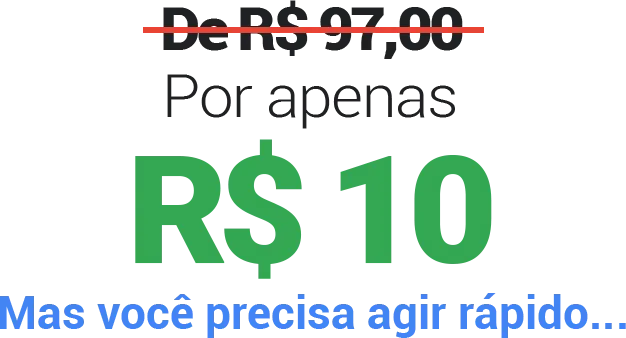
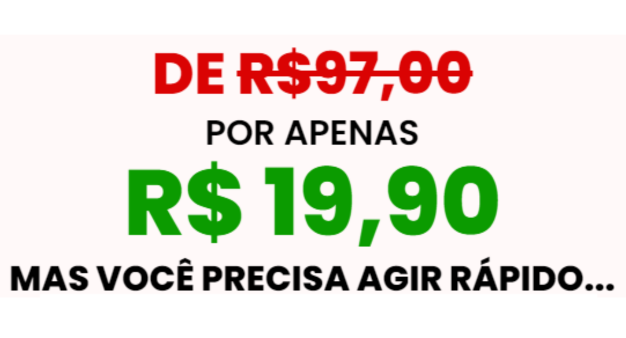
Add files via upload

diff --git a/tempero.html b/tempero.html
@@ -70,7 +70,7 @@ var pysOptions = {"staticEvents":{"facebook":{"init_event":[{"delay":0,"type":"s
                         <div class="elementor-widget-wrap elementor-element-populated"> 
                             <div class="elementor-element elementor-element-54c092b9 elementor-widget elementor-widget-image" data-id="54c092b9" data-element_type="widget" data-widget_type="image.default"> 
                                 <div class="elementor-widget-container"> 
-                                    <img decoding="async" fetchpriority="high" width="300" height="300" src="Design-sem-nome-2023-05-05T235432.087-300x300.png" class="attachment-medium size-medium wp-image-1256" alt="" srcset="https://cdn1.123tp.net/f82510e06f994523bf98f711fc83c182/images/Design-sem-nome-2023-05-05T235432.087-300x300.png 300w, https://cdn1.123tp.net/f82510e06f994523bf98f711fc83c182/images/Design-sem-nome-2023-05-05T235432.087-150x150.png 150w, https://cdn1.123tp.net/f82510e06f994523bf98f711fc83c182/images/Design-sem-nome-2023-05-05T235432.087.png 500w" sizes="(max-width: 300px) 100vw, 300px"> 
+                                    <img decoding="async" fetchpriority="high" width="300" height="300" src="Design-sem-nome-2023-05-05T235432.087-300x300.png" class="attachment-medium size-medium wp-image-1256" alt="" srcset="Design-sem-nome-2023-05-05T235432.087-300x300.png 300w, Design-sem-nome-2023-05-05T235432.087-150x150.png 150w, Design-sem-nome-2023-05-05T235432.087.png 500w" sizes="(max-width: 300px) 100vw, 300px"> 
                                 </div>                                 
                             </div>                             
                             <div class="elementor-element elementor-element-26f912f2 elementor-widget elementor-widget-heading" data-id="26f912f2" data-element_type="widget" data-widget_type="heading.default"> 
@@ -112,7 +112,7 @@ var pysOptions = {"staticEvents":{"facebook":{"init_event":[{"delay":0,"type":"s
                             <div class="elementor-element elementor-element-4ae4c439 elementor-widget__width-inherit elementor-align-center elementor-widget elementor-widget-button" data-id="4ae4c439" data-element_type="widget" data-widget_type="button.default"> 
                                 <div class="elementor-widget-container"> 
                                     <div class="elementor-button-wrapper"> 
-                                        <a href="https://pepper.com.br/checkout/index.html?p=68213&amp;o=74877" class="elementor-button-link elementor-button elementor-size-sm" role="button" id="umdoistrestplink1"> <span class="elementor-button-content-wrapper"> <span class="elementor-button-text">Liberar Guia Completo</span> </span> </a> 
+                                        <a href="https://pay.kiwify.com.br/o1u2X6f" class="elementor-button-link elementor-button elementor-size-sm" role="button" id="umdoistrestplink1"> <span class="elementor-button-content-wrapper"> <span class="elementor-button-text">Liberar Guia Completo</span> </span> </a> 
                                     </div>                                     
                                 </div>                                 
                             </div>                             
@@ -426,7 +426,7 @@ var pysOptions = {"staticEvents":{"facebook":{"init_event":[{"delay":0,"type":"s
                             <div class="elementor-element elementor-element-43c7c964 elementor-widget__width-inherit elementor-align-center elementor-widget elementor-widget-button" data-id="43c7c964" data-element_type="widget" data-widget_type="button.default"> 
                                 <div class="elementor-widget-container"> 
                                     <div class="elementor-button-wrapper"> 
-                                        <a href="https://pepper.com.br/checkout/index.html?p=68213&amp;o=74877" class="elementor-button-link elementor-button elementor-size-sm" role="button" id="umdoistrestplink2"> <span class="elementor-button-content-wrapper"> <span class="elementor-button-text">Liberar Guia Completo</span> </span> </a> 
+                                        <a href="https://pay.kiwify.com.br/o1u2X6f" class="elementor-button-link elementor-button elementor-size-sm" role="button" id="umdoistrestplink2"> <span class="elementor-button-content-wrapper"> <span class="elementor-button-text">Liberar Guia Completo</span> </span> </a> 
                                     </div>                                     
                                 </div>                                 
                             </div>                             
@@ -536,8 +536,7 @@ var pysOptions = {"staticEvents":{"facebook":{"init_event":[{"delay":0,"type":"s
                             <div class="elementor-element elementor-element-45239151 elementor-widget elementor-widget-heading" data-id="45239151" data-element_type="widget" data-widget_type="heading.default"> 
                                 <div class="elementor-widget-container"> 
                                     <h2 class="elementor-heading-title elementor-size-default">Garanta tudo isso
-por apenas R$ 10
-enquanto é tempo.</h2> 
+por apenas R$ 19,90 enquanto é tempo.</h2> 
                                 </div>                                 
                             </div>                             
                             <div class="elementor-element elementor-element-599b7072 elementor-widget elementor-widget-image" data-id="599b7072" data-element_type="widget" data-widget_type="image.default"> 
@@ -557,7 +556,7 @@ enquanto é tempo.</h2>
                             </div>                             
                             <div class="elementor-element elementor-element-210efaa4 elementor-widget elementor-widget-image" data-id="210efaa4" data-element_type="widget" data-widget_type="image.default"> 
                                 <div class="elementor-widget-container"> 
-                                    <img decoding="async" loading="lazy" width="626" height="338" src="https://cdn1.123tp.net/f82510e06f994523bf98f711fc83c182/images/preco-baixo.png" class="attachment-large size-large wp-image-1264" alt="" srcset="https://cdn1.123tp.net/f82510e06f994523bf98f711fc83c182/images/preco-baixo.png 626w, https://cdn1.123tp.net/f82510e06f994523bf98f711fc83c182/images/preco-baixo-300x162.png 300w" sizes="(max-width: 626px) 100vw, 626px"> 
+                                    <img decoding="async" loading="lazy" width="626" height="338" src="preco-baixo.png" class="attachment-large size-large wp-image-1264" alt="" srcset="preco-baixo.png 626w, preco-baixo-300x162.png 300w" sizes="(max-width: 626px) 100vw, 626px"> 
                                 </div>                                 
                             </div>                             
                             <div class="elementor-element elementor-element-255783d5 elementor-widget__width-inherit elementor-align-center elementor-widget elementor-widget-button" data-id="255783d5" data-element_type="widget" data-widget_type="button.default"> 
@@ -662,7 +661,7 @@ enquanto é tempo.</h2>
                                         <div class="elementor-widget-wrap elementor-element-populated"> 
                                             <div class="elementor-element elementor-element-24c10f9a elementor-widget elementor-widget-image" data-id="24c10f9a" data-element_type="widget" data-widget_type="image.default"> 
                                                 <div class="elementor-widget-container"> 
-                                                    <img decoding="async" fetchpriority="high" width="300" height="300" src="Design-sem-nome-2023-05-05T235432.087-300x300.png" class="attachment-medium size-medium wp-image-1256" alt="" srcset="https://cdn1.123tp.net/f82510e06f994523bf98f711fc83c182/images/Design-sem-nome-2023-05-05T235432.087-300x300.png 300w, https://cdn1.123tp.net/f82510e06f994523bf98f711fc83c182/images/Design-sem-nome-2023-05-05T235432.087-150x150.png 150w, https://cdn1.123tp.net/f82510e06f994523bf98f711fc83c182/images/Design-sem-nome-2023-05-05T235432.087.png 500w" sizes="(max-width: 300px) 100vw, 300px"> 
+                                                    <img decoding="async" fetchpriority="high" width="300" height="300" src="Design-sem-nome-2023-05-05T235432.087-300x300.png" class="attachment-medium size-medium wp-image-1256" alt="" srcset="Design-sem-nome-2023-05-05T235432.087-300x300.png 300w, Design-sem-nome-2023-05-05T235432.087-150x150.png 150w, Design-sem-nome-2023-05-05T235432.087.png 500w" sizes="(max-width: 300px) 100vw, 300px"> 
                                                 </div>                                                 
                                             </div>                                             
                                         </div>                                         
